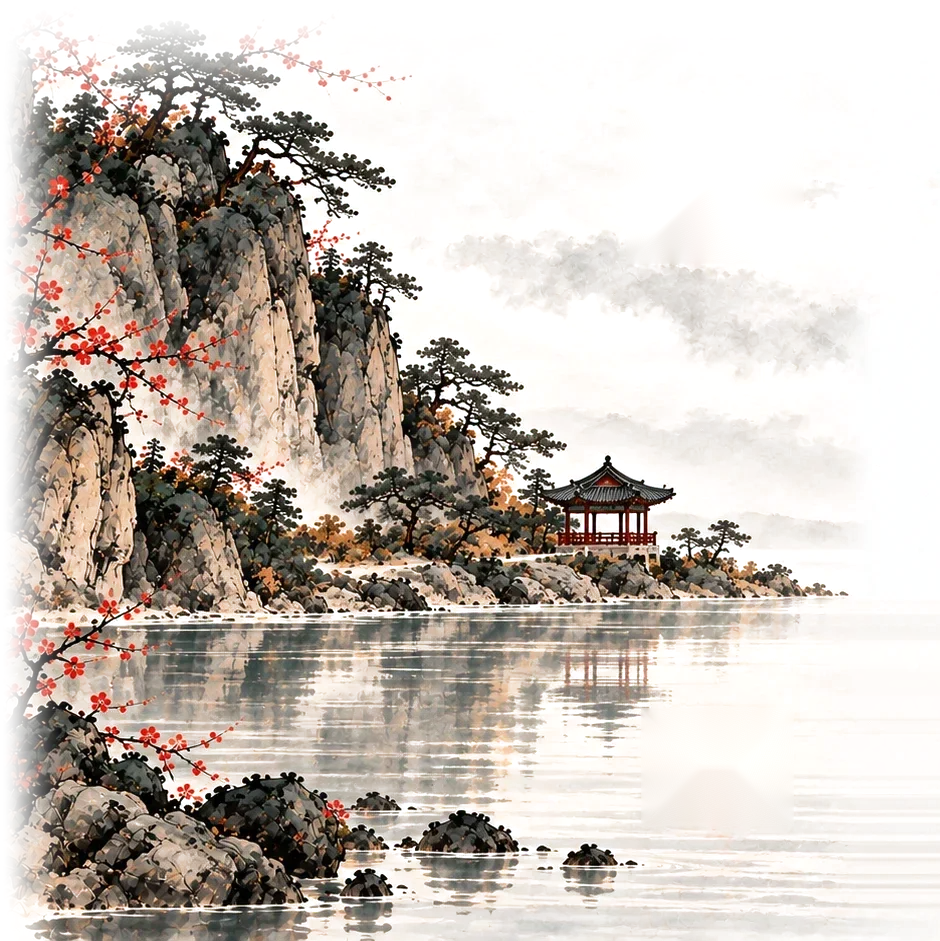
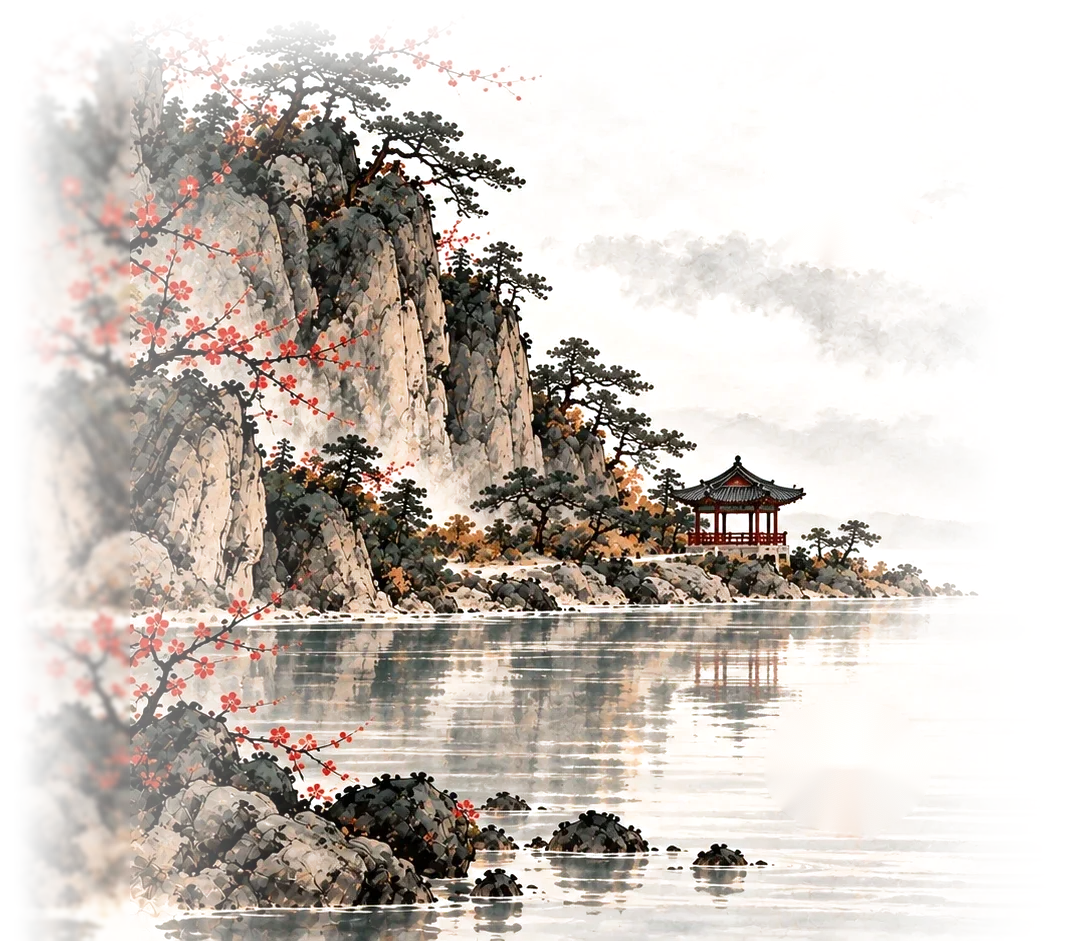
Home page hero: the painting never cut, faint at the left, ridges above the heading
The owner (2026-10-07): on a wide window the top of the painting was cut
in a straight line, and its left edge stopped abruptly. The landscape
now keeps its own shape (as tall as the hero, never cropped at the top)
and every edge fades into mist inside the image; on the left it carries
on faintly to the window's edge (its own edge mirrored and softened).
Fainter far ridges (hero-ridge-far.webp) fill the space above 'Five ways
in'. The sun is lifted out along its round outline, so no trace of a box
is left where it was.

Claude-Session: https://claude.ai/code/session_01V7gnsy9W7JtLEL4WKzskaM

diff --git a/css/home-v2.css b/css/home-v2.css
@@ -68,17 +68,18 @@ body.home-v2 {
 }
 .home-v2 .hero-landscape {
   position: absolute;
-  /* set a little lower and to the right so the crag's top shows (the
-     owner, 2026-10-07); its paper is transparent, so it sits on the
-     hanji with no edge, and the frame's cut at its top fades into mist */
-  left: 5%;
-  top: 8%;
+  /* Never cropped at the top: the picture keeps its own shape, as tall as
+     the hero, and every edge of it fades into mist inside the image (the
+     owner, 2026-10-07: on a wide window the top was cut in a straight
+     line). On the left the painting carries on faintly to the window's
+     edge; it is set a little low so the crag's top shows. */
+  left: 0;
+  top: 6%;
   height: 100%;
-  width: 55%;
+  width: auto;
+  max-width: 62%;
   object-fit: cover;
-  object-position: left center;
-  -webkit-mask-image: linear-gradient(to right, #000 70%, transparent 100%);
-  mask-image: linear-gradient(to right, #000 70%, transparent 100%);
+  object-position: left top;
   pointer-events: none;
 }
 /* the sun (and its reflection below it) stays where it was when the
@@ -88,6 +89,15 @@ body.home-v2 {
   left: 36.9%;
   top: calc(18.4% - 4.87vw);
   width: 9.98%;
+  height: auto;
+  pointer-events: none;
+}
+/* fainter ridges further off, above the heading */
+.home-v2 .hero-ridge-far {
+  position: absolute;
+  right: 15%;
+  top: 0;
+  width: 27%;
   height: auto;
   pointer-events: none;
 }
@@ -346,11 +356,13 @@ body.home-v2 {
     position: static;
     display: block;
     width: 100%;
+    max-width: none;
     height: 50vh;
+    object-position: left center;
     -webkit-mask-image: none;
     mask-image: none;
   }
-  .home-v2 .hero-ridge, .home-v2 .hero-sun { display: none; }
+  .home-v2 .hero-ridge, .home-v2 .hero-ridge-far, .home-v2 .hero-sun { display: none; }
   .home-v2 .hero-content { margin: 0 auto; max-width: 760px; padding: 32px 24px 44px; }
   /* one column under the picture: the spec's sizes as they are */
   .home-v2 .lp-eyebrow { font-size: 20px; margin-bottom: 12px; }

diff --git a/index.html b/index.html
@@ -76,9 +76,10 @@
   <picture>
     <!-- 1024px and below: the band above the heading, the painting whole (sun included) -->
     <source media="(max-width: 1024px)" srcset="assets/hero-landscape-band.webp" width="940" height="941">
-    <img class="hero-landscape" src="assets/hero-landscape.webp" width="940" height="941" alt="" aria-hidden="true" fetchpriority="high" decoding="async">
+    <img class="hero-landscape" src="assets/hero-landscape.webp" width="1070" height="941" alt="" aria-hidden="true" fetchpriority="high" decoding="async">
   </picture>
   <img class="hero-sun" src="assets/hero-sun.webp" width="170" height="722" alt="" aria-hidden="true" decoding="async">
+  <img class="hero-ridge-far" src="assets/hero-ridge-far.webp" width="372" height="230" alt="" aria-hidden="true" decoding="async">
   <img class="hero-ridge" src="assets/hero-ridge.webp" width="372" height="230" alt="" aria-hidden="true" decoding="async">
   <div class="hero-content lp">
     <p class="lp-eyebrow"><span class="lp-rule" aria-hidden="true"></span><span data-i18n="hero.path.eyebrow">Your Learning Path</span>&nbsp;&nbsp;·&nbsp;&nbsp;<span lang="ko">배움의 길</span></p>
